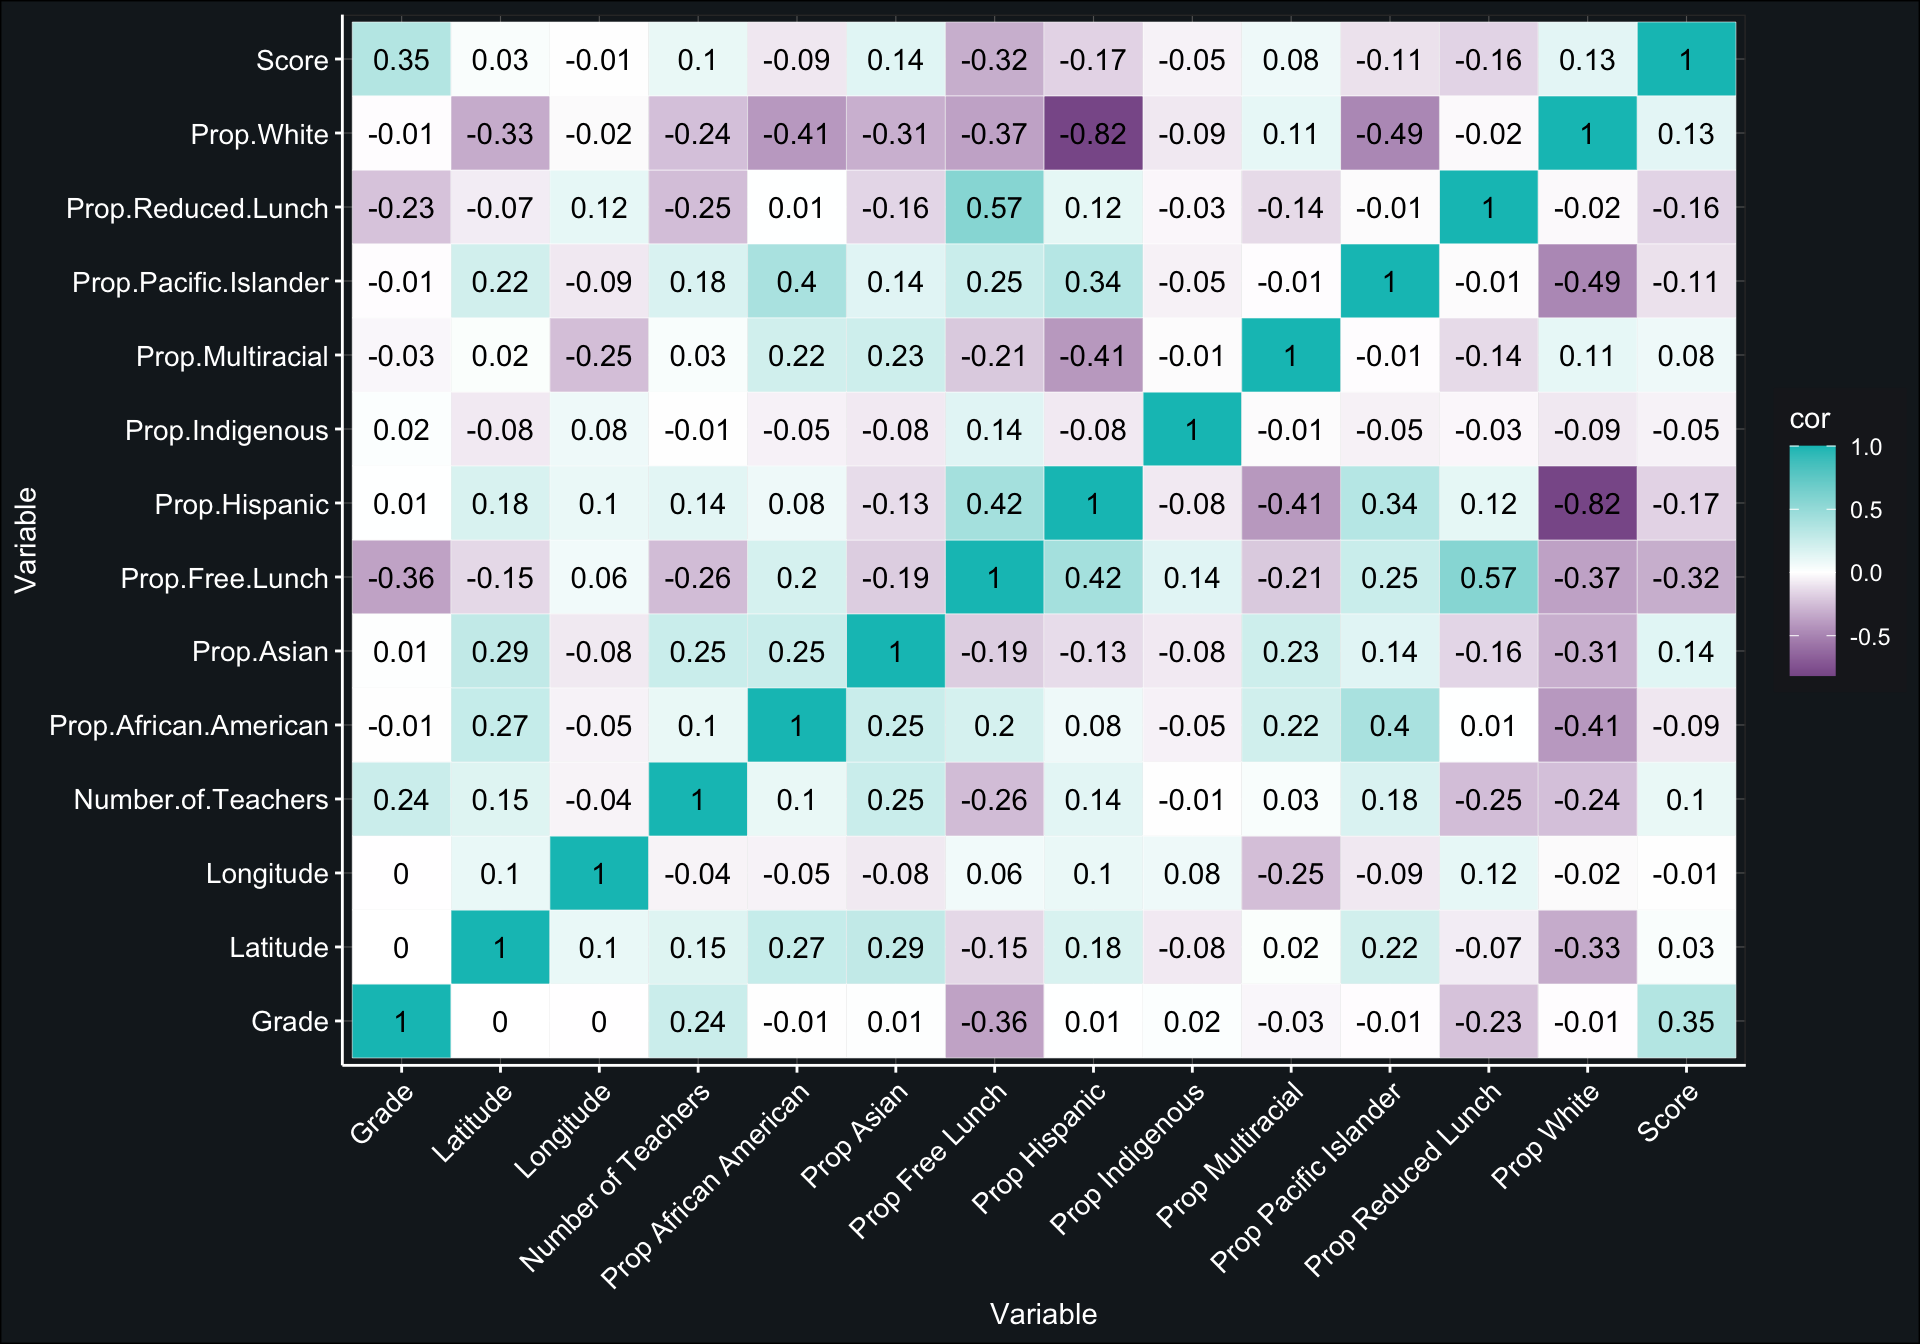
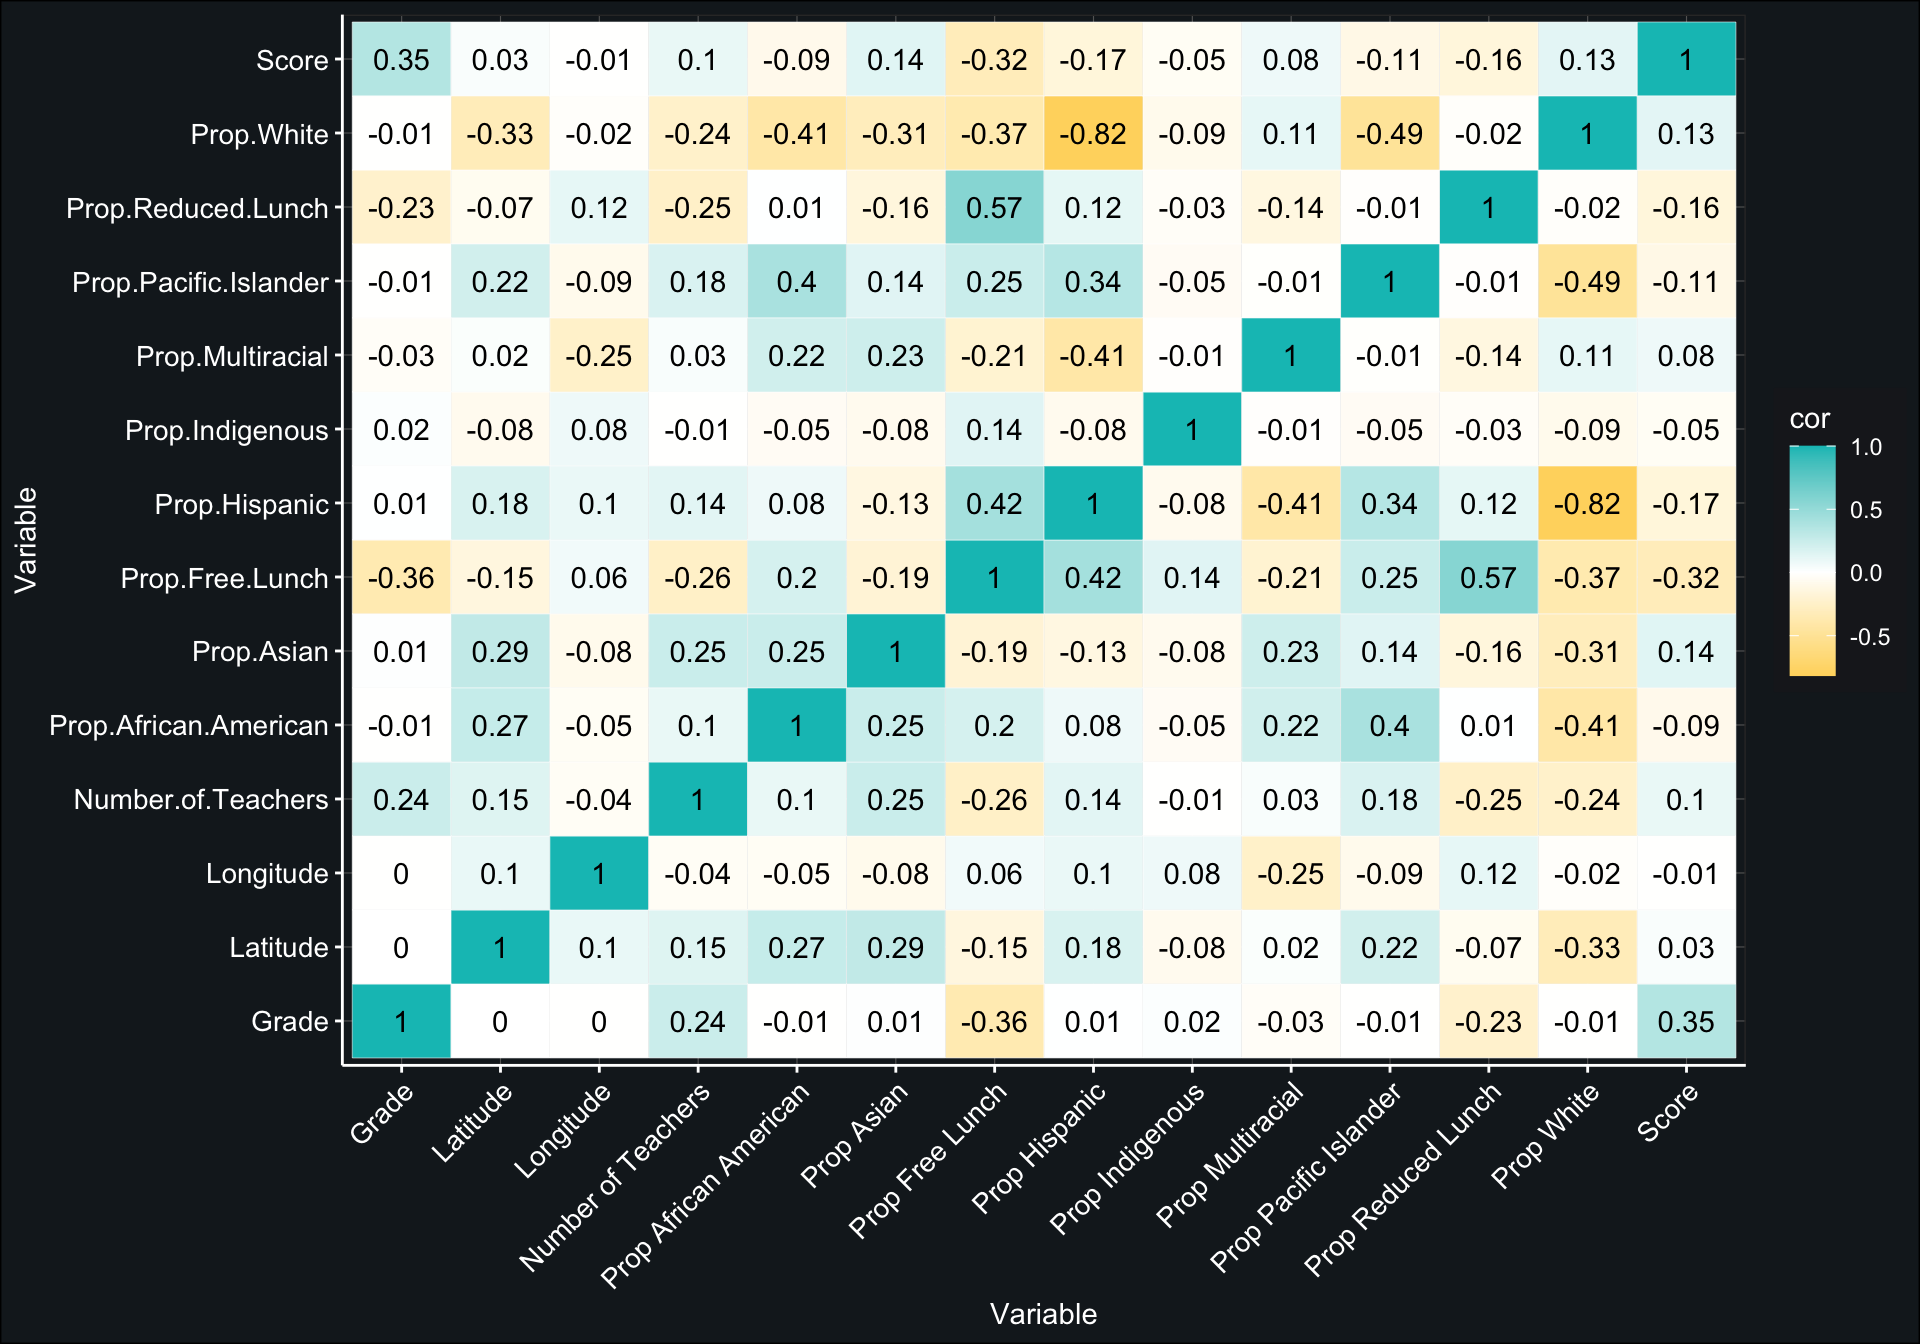
Made color scheme consistent with Lea's page

diff --git a/page1_data.html b/page1_data.html
@@ -611,7 +611,7 @@ ggplot(hist_data, aes(x = value)) +
 ggplot(cor_data, aes(x = rowname, y = colname, fill = cor)) +
     geom_tile(color = &quot;white&quot;) +
     geom_text(aes(label=round(cor,2))) + 
-    scale_fill_gradient2(low = &quot;#703882&quot;, 
+    scale_fill_gradient2(low = &quot;#FCCF47&quot;, 
                          mid = &quot;white&quot;, 
                          high = &quot;#01C0C0&quot;) +
     theme_tensor_flo() +
